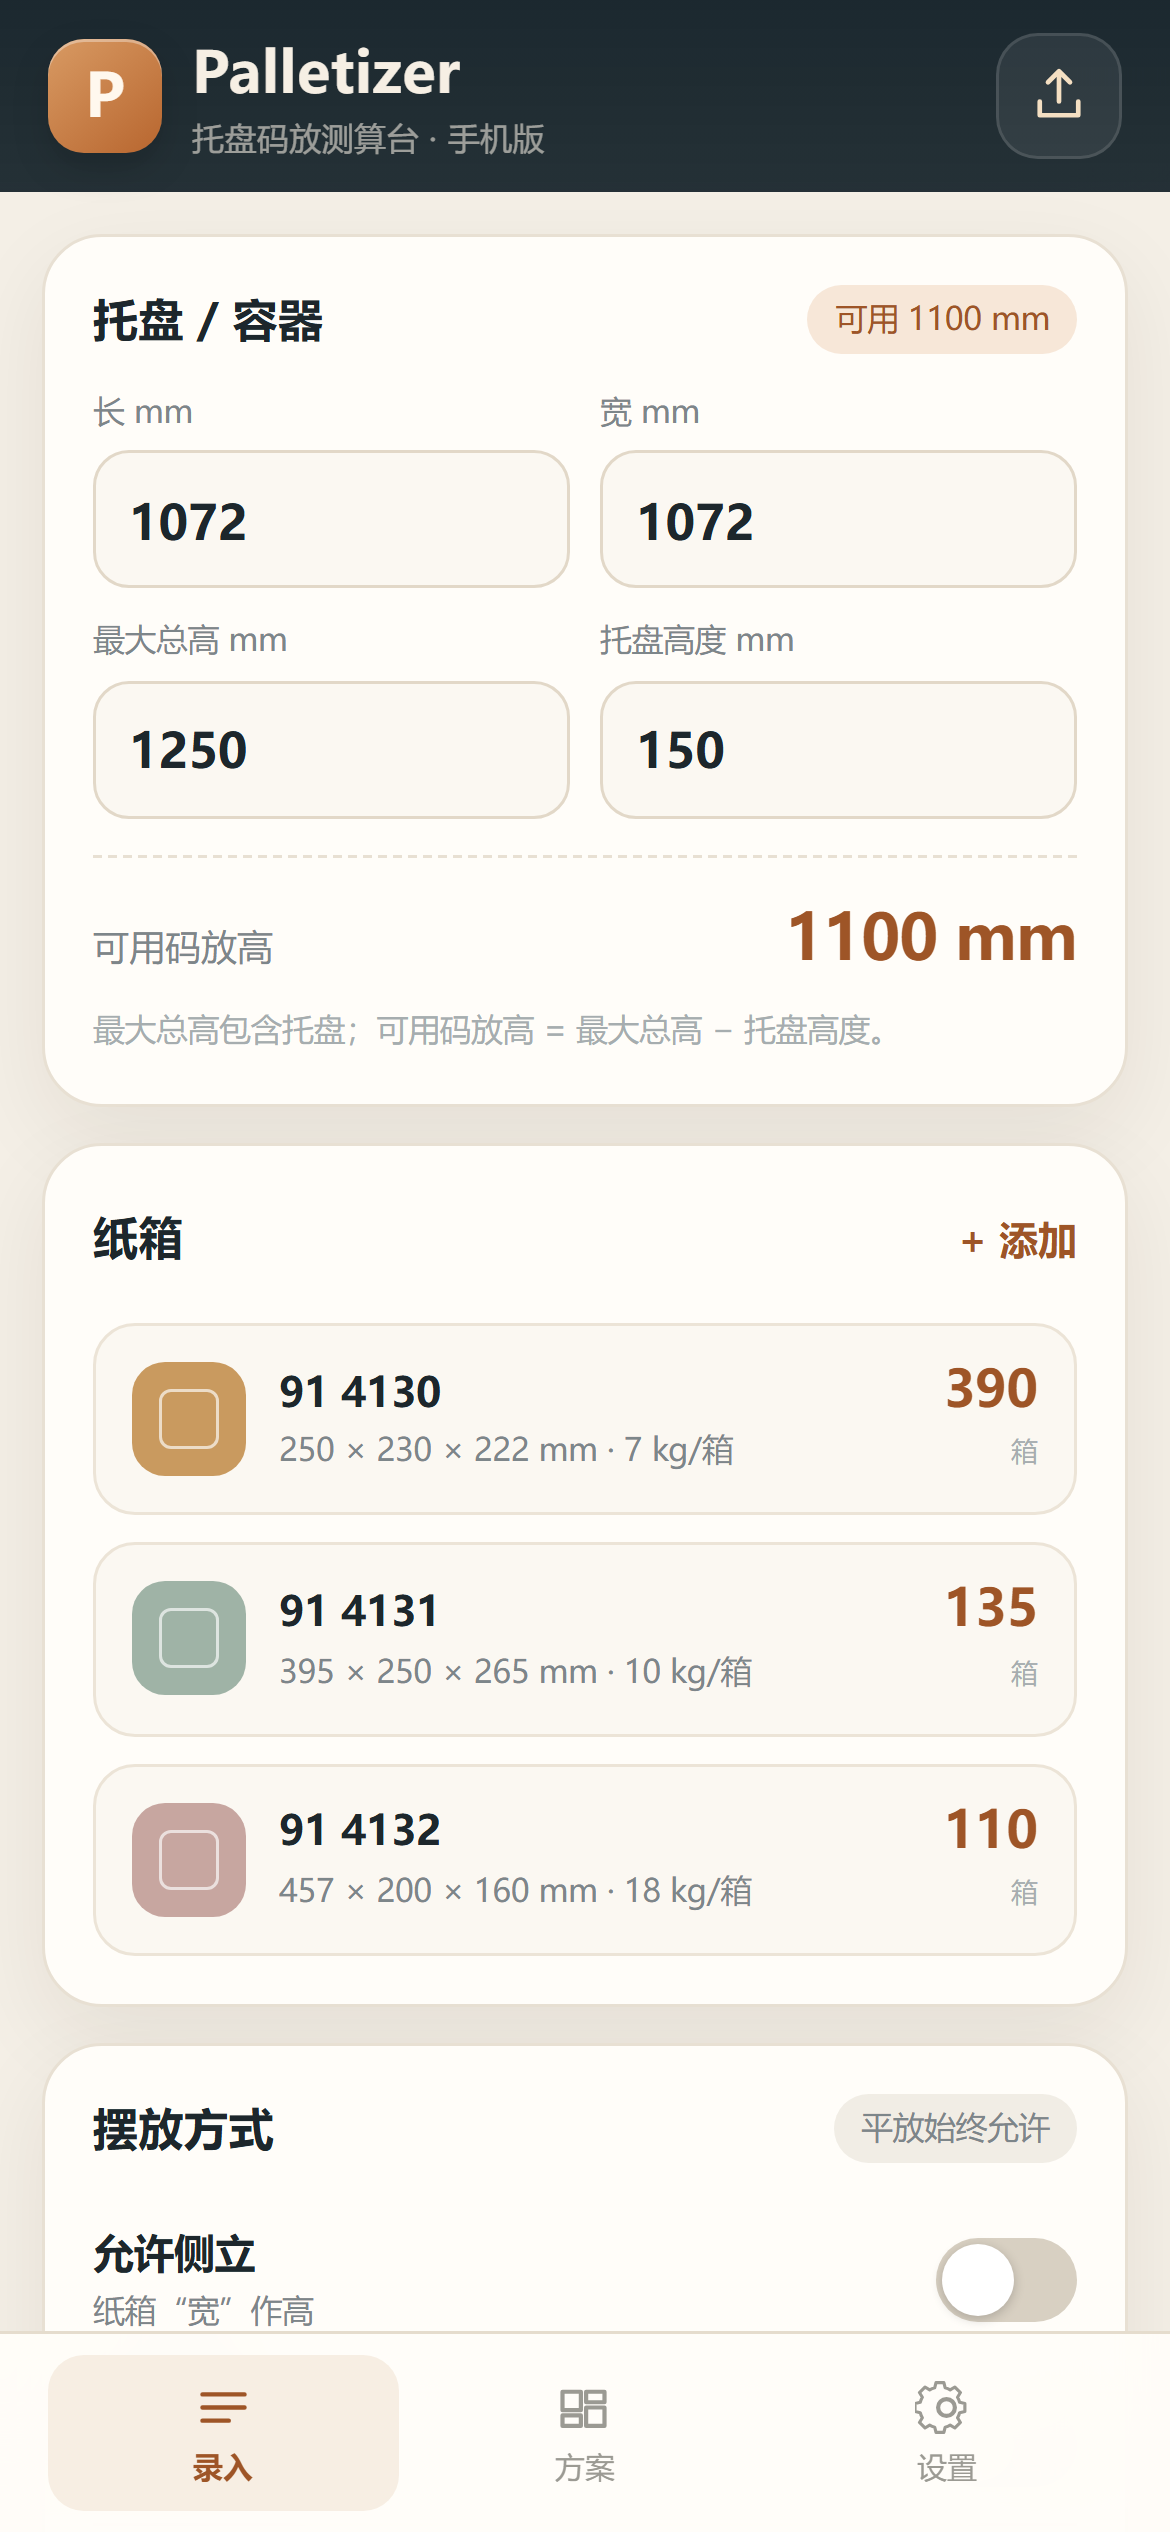
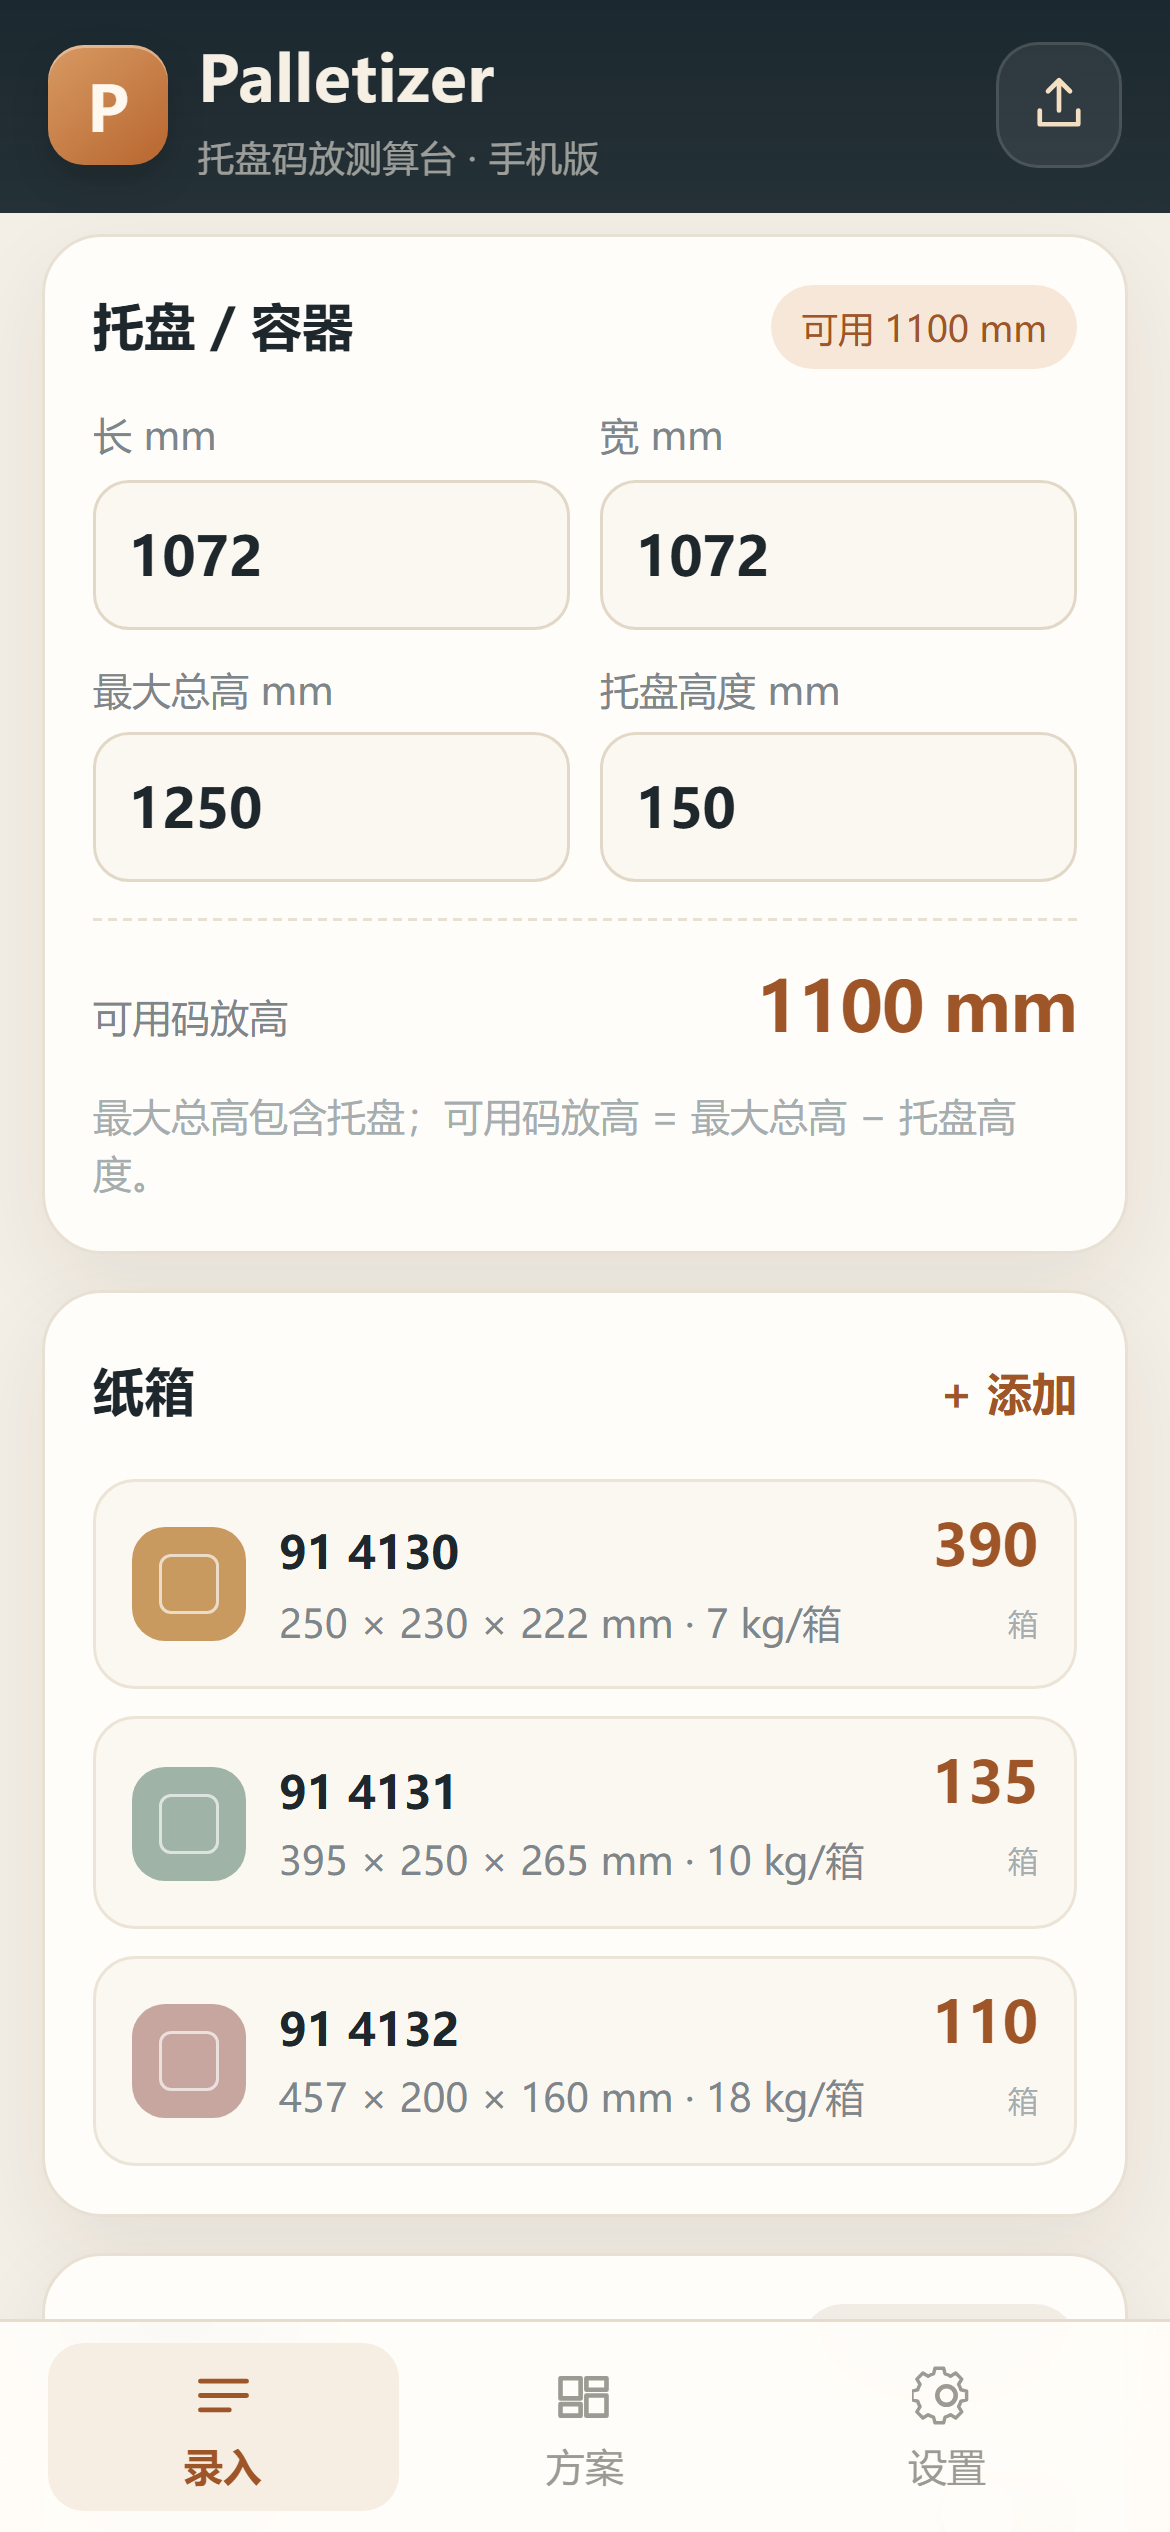
Mobile v1.2: larger type, pinch zoom, adjustable layer explode

diff --git a/js/render3d.js b/js/render3d.js
@@ -560,14 +560,50 @@
     var self = this;
     var canvas = this.canvas;
     var down = null;
+    var pointers = new Map();
+    var pinch = null;
+
+    function pointerList() {
+      return Array.from(pointers.values());
+    }
+    function pinchDistance() {
+      var pts = pointerList();
+      if (pts.length < 2) return 0;
+      return Math.hypot(pts[0].x - pts[1].x, pts[0].y - pts[1].y);
+    }
 
     canvas.addEventListener('pointerdown', function (e) {
       if (e.button !== 0) return;
-      down = { x: e.clientX, y: e.clientY, yaw: self.cam.yaw, pitch: self.cam.pitch, moved: false };
-      canvas.setPointerCapture(e.pointerId);
+      pointers.set(e.pointerId, { x: e.clientX, y: e.clientY });
+      try { canvas.setPointerCapture(e.pointerId); } catch (err) {}
+      if (pointers.size === 1) {
+        down = { x: e.clientX, y: e.clientY, yaw: self.cam.yaw, pitch: self.cam.pitch, moved: false };
+        pinch = null;
+      } else if (pointers.size === 2) {
+        var d = pinchDistance();
+        pinch = { dist: d > 0 ? d : 1, zoom: self.cam.zoom };
+        down = null;
+      }
       canvas.style.cursor = 'grabbing';
     });
+
     canvas.addEventListener('pointermove', function (e) {
+      if (!pointers.has(e.pointerId)) return;
+      pointers.set(e.pointerId, { x: e.clientX, y: e.clientY });
+
+      if (pointers.size >= 2) {
+        if (!pinch) {
+          var d0 = pinchDistance();
+          pinch = { dist: d0 > 0 ? d0 : 1, zoom: self.cam.zoom };
+        }
+        var d = pinchDistance();
+        if (d > 0 && pinch.dist > 0) {
+          self.cam.zoom = clamp(pinch.zoom * d / pinch.dist, 0.30, 5.0);
+          self.requestRender();
+        }
+        return;
+      }
+
       if (!down) return;
       var dx = e.clientX - down.x;
       var dy = e.clientY - down.y;
@@ -576,12 +612,20 @@
       self.cam.pitch = clamp(down.pitch + dy * 0.006, 0.06, 1.50);
       self.requestRender();
     });
+
     function up(e) {
-      if (!down) return;
-      down = null;
-      canvas.style.cursor = 'grab';
+      pointers.delete(e.pointerId);
       if (canvas.hasPointerCapture && e.pointerId != null && canvas.hasPointerCapture(e.pointerId)) {
-        canvas.releasePointerCapture(e.pointerId);
+        try { canvas.releasePointerCapture(e.pointerId); } catch (err) {}
+      }
+      if (pointers.size === 1) {
+        var p = pointerList()[0];
+        down = { x: p.x, y: p.y, yaw: self.cam.yaw, pitch: self.cam.pitch, moved: false };
+        pinch = null;
+      } else if (pointers.size === 0) {
+        down = null;
+        pinch = null;
+        canvas.style.cursor = 'grab';
       }
     }
     canvas.addEventListener('pointerup', up);
@@ -589,7 +633,7 @@
     canvas.addEventListener('wheel', function (e) {
       e.preventDefault();
       var f = Math.exp(e.deltaY * 0.0011);
-      self.cam.zoom = clamp(self.cam.zoom * f, 0.48, 3.2);
+      self.cam.zoom = clamp(self.cam.zoom * f, 0.30, 5.0);
       self.requestRender();
     }, { passive: false });
     canvas.addEventListener('dblclick', function () { self.resetCamera(); });

diff --git a/css/readability.css b/css/readability.css
@@ -1,0 +1,66 @@
+/* Palletizer v1.2：手机可读性 + 3D 拆层间距 */
+html { -webkit-text-size-adjust: 100%; }
+body { font-size: 17px; line-height: 1.5; }
+.brand-text h1 { font-size: 21px; }
+.brand-text p { font-size: 12px; }
+.brand-mark { width: 40px; height: 40px; font-size: 21px; }
+.card h2, .card-title { font-size: 17px; }
+.chip { font-size: 12px; padding: 5px 10px; }
+.text-btn { font-size: 15px; }
+.field span { font-size: 13px; }
+.field input { height: 50px; font-size: 18px; }
+.usable-line span { font-size: 13px; }
+.usable-line strong { font-size: 23px; }
+.micro { font-size: 13px; }
+.carton-main strong { font-size: 15px; }
+.carton-main small { font-size: 13px; }
+.carton-qty b { font-size: 19px; }
+.carton-qty span { font-size: 10px; }
+.switch-row { min-height: 60px; }
+.switch-row b { font-size: 15px; }
+.switch-row small { font-size: 13px; }
+.primary-btn { min-height: 56px; font-size: 17px; }
+.secondary-btn { font-size: 15px; }
+.input-hint { font-size: 12px; }
+.hero-kicker { font-size: 12px; }
+.hero-total strong { font-size: 64px; }
+.hero-sub { font-size: 13px; }
+.hero-grid b { font-size: 18px; }
+.hero-grid span { font-size: 11.5px; }
+.plan-note { font-size: 13px; }
+.section-line h2 { font-size: 17px; }
+.section-line span { font-size: 12px; }
+.pallet-main strong { font-size: 15px; }
+.pallet-main small { font-size: 13px; line-height: 1.45; }
+.pallet-num b { font-size: 20px; }
+.pallet-num span { font-size: 10px; }
+.badge { font-size: 10px; padding: 3px 7px; }
+.empty-state h2 { font-size: 19px; }
+.empty-state p { font-size: 13px; }
+.settings-text { font-size: 13px; }
+.settings-text.muted { font-size: 11.5px; }
+.list-btn span { font-size: 15px; }
+.list-btn em { font-size: 11px; }
+.install-badge { font-size: 12px; }
+.tab { font-size: 13px; min-height: 56px; }
+.tab svg { width: 23px; height: 23px; }
+.detail-head h2 { font-size: 16px; }
+.detail-head p { font-size: 12px; }
+.seg button { font-size: 12px; padding: 8px 10px; }
+.scene-hint { font-size: 11px; }
+.detail-metrics span { font-size: 12px; }
+.detail-metrics b { font-size: 16px; }
+.layer-main strong { font-size: 13.5px; }
+.layer-main small { font-size: 12px; }
+.sheet-head h2 { font-size: 19px; }
+.toast { font-size: 13px; }
+
+/* 3D 拆层间距 */
+.explode-row {
+  display: flex; align-items: center; gap: 11px;
+  margin-top: 9px; padding: 10px 12px;
+  background: var(--card); border: 1px solid var(--line); border-radius: 14px;
+}
+.explode-row span { font-size: 12.5px; color: var(--muted); white-space: nowrap; }
+.explode-row input[type="range"] { flex: 1; accent-color: var(--accent); height: 28px; }
+.explode-row b { font-size: 12px; color: var(--accent-dark); min-width: 34px; text-align: right; }

diff --git a/js/mobile.js b/js/mobile.js
@@ -4,7 +4,7 @@
   var Core = window.PalletCore;
   var XL = window.XlsxLite;
   var KEY = 'palletizer.v1';
-  var VERSION = '1.0.0';
+  var VERSION = '1.2.0';
   var PALETTE = ['#C99A5F', '#9FB3A6', '#C7A6A0', '#B1A3C9', '#D1B280', '#8FA9B8'];
 
   var DEFAULTS = {
@@ -28,6 +28,8 @@
   var scene = null;
   var editingIndex = -1;
   var detailId = '';
+  var currentDetail = null;
+  var explodePct = 10;
 
   function $(sel, root) { return (root || document).querySelector(sel); }
   function $all(sel, root) { return Array.prototype.slice.call((root || document).querySelectorAll(sel)); }
@@ -386,6 +388,7 @@
     if (scene) return scene;
     scene = new window.Scene3D($('#scene'));
     scene.showDims = true;
+    window.__palletizerScene = scene;
     return scene;
   }
 
@@ -424,6 +427,7 @@
     var p = plan && plan.pallets.filter(function (x) { return x.id === id; })[0];
     if (!p) return;
     detailId = id;
+    currentDetail = p;
     $('#detailTitle').textContent = p.id + ' · ' + palletKind(p);
     $('#detailSub').textContent = p.boxes + ' 箱 · ' + p.layers + ' 层 · ' + fmt(p.weight) + ' kg';
     var totalH = p.height + state.pallet.base;
@@ -454,12 +458,28 @@
     $('#detail').classList.add('open');
     $('#detail').setAttribute('aria-hidden', 'false');
     document.body.style.overflow = 'hidden';
+    $('#explodeRange').value = explodePct;
+    $('#explodeValue').textContent = explodePct + '%';
     requestAnimationFrame(function () {
       var s = ensureScene();
       s.resize();
       s.setModel(buildModel(p));
       s.setView('iso');
+      applyExplode();
     });
+  }
+
+  function applyExplode() {
+    if (!currentDetail || !scene) return;
+    var p = currentDetail;
+    explodePct = Math.max(0, Math.min(100, Number($('#explodeRange').value) || 0));
+    var pitch = p.height / Math.max(1, p.layers);
+    var mm = (explodePct / 100) * Math.max(8, pitch * 2.4);
+    var model = buildModel(p);
+    model.viewH = Math.max(usableH(), p.height + Math.max(0, p.layers - 1) * mm);
+    scene.explode = mm;
+    scene.setModel(model);
+    $('#explodeValue').textContent = explodePct + '%';
   }
 
   function closeDetail() {
@@ -754,6 +774,7 @@
       if (card) openDetail(card.dataset.pallet);
     });
     $('#detailBack').addEventListener('click', closeDetail);
+    $('#explodeRange').addEventListener('input', applyExplode);
     $all('#viewSeg button').forEach(function (b) {
       b.addEventListener('click', function () {
         $all('#viewSeg button').forEach(function (x) { x.classList.toggle('active', x === b); });

diff --git a/tools/mobile-test.js b/tools/mobile-test.js
@@ -163,6 +163,35 @@ async function shot(cdp, name) {
     if (!detail.open) throw new Error('详情未打开');
     if (detail.layers !== 2) throw new Error('1072 最后混托应为 2 层');
     if (!(detail.canvasW > 100 && detail.canvasH > 100)) throw new Error('3D canvas 未初始化');
+    const pinch = await evaluate(cdp, `(() => {
+      const c = document.querySelector('#scene');
+      const s = window.__palletizerScene;
+      const z0 = s.cam.zoom;
+      const ev = (type, id, x, y) => c.dispatchEvent(new PointerEvent(type, {
+        pointerId: id, clientX: x, clientY: y, bubbles: true, button: 0, pointerType: 'touch'
+      }));
+      ev('pointerdown', 1, 100, 100);
+      ev('pointerdown', 2, 200, 200);
+      ev('pointermove', 2, 320, 320);
+      const z1 = s.cam.zoom;
+      ev('pointerup', 1, 100, 100);
+      ev('pointerup', 2, 320, 320);
+      return { z0, z1 };
+    })()`);
+    console.log('pinch zoom:', pinch);
+    if (!(pinch.z1 > pinch.z0 + 0.05)) throw new Error('双指缩放未改变 3D 缩放：' + JSON.stringify(pinch));
+
+    const exp0 = await evaluate(cdp, "({ value: document.querySelector('#explodeRange').value, mm: window.__palletizerScene.explode })");
+    await evaluate(cdp, `(() => {
+      const el = document.querySelector('#explodeRange');
+      el.value = 50;
+      el.dispatchEvent(new Event('input', { bubbles: true }));
+    })()`);
+    await sleep(300);
+    const exp1 = await evaluate(cdp, "({ value: document.querySelector('#explodeRange').value, label: document.querySelector('#explodeValue').textContent, mm: window.__palletizerScene.explode })");
+    console.log('explode:', exp0, exp1);
+    if (exp1.value !== '50' || exp1.label !== '50%') throw new Error('拆层间距滑块未更新');
+    if (!(exp1.mm > exp0.mm + 1)) throw new Error('拆层间距没有作用于 3D');
     await shot(cdp, 'mobile-03-detail.png');
     await evaluate(cdp, "document.querySelector('#detailBack').click()");
     await sleep(300);

diff --git a/index.html b/index.html
@@ -12,6 +12,7 @@
   <link rel="apple-touch-icon" href="icons/icon-180.png">
   <link rel="icon" type="image/png" href="icons/icon-192.png">
   <link rel="stylesheet" href="css/mobile.css">
+  <link rel="stylesheet" href="css/readability.css">
   <title>Palletizer · 托盘码放测算台手机版</title>
 </head>
 <body>
@@ -119,7 +120,7 @@
     <section class="card settings-hero">
       <div class="brand-mark large">P</div>
       <div><h2>Palletizer</h2><p>托盘码放测算台 · 手机版</p></div>
-      <span class="version">v1.0</span>
+      <span class="version">v1.2</span>
     </section>
     <section class="card">
       <h2 class="card-title">数据</h2>
@@ -169,6 +170,11 @@
   </header>
   <div class="detail-scroll">
     <div class="scene-wrap"><canvas id="scene"></canvas><div class="scene-hint">拖动旋转 · 双指缩放</div></div>
+    <div class="explode-row">
+      <span>拆层间距</span>
+      <input id="explodeRange" type="range" min="0" max="100" step="1" value="10" aria-label="拆层间距">
+      <b id="explodeValue">10%</b>
+    </div>
     <div class="detail-metrics" id="detailMetrics"></div>
     <div class="section-line"><h2>逐层明细</h2><span id="layerCountLabel">—</span></div>
     <div id="layerList" class="layer-list"></div>

diff --git a/sw.js b/sw.js
@@ -1,9 +1,10 @@
 /* Palletizer 离线缓存 */
-const CACHE = 'palletizer-v1.0.0';
+const CACHE = 'palletizer-v1.2.0';
 const ASSETS = [
   './',
   './index.html',
   './css/mobile.css',
+  './css/readability.css',
   './js/xlsx-lite.js',
   './js/core.js',
   './js/render3d.js',

diff --git a/README.md b/README.md
@@ -3,6 +3,8 @@
 **托盘码放测算台 · 手机版**  
 A mobile-first pallet loading calculator for iPhone.
 
+**v1.2：整体字号调大；3D 支持双指缩放；拆层间距可调。**
+
 > 目标部署地址：<https://taneli888.github.io/palletizer/>  
 > GitHub 仓库：<https://github.com/taneli888/palletizer>  
 > 部署完成后，用 iPhone Safari 扫码打开，再“添加到主屏幕”。
@@ -21,7 +23,8 @@ Palletizer 是一个纯前端 PWA，针对 iPhone 屏幕重新做了界面：
 - 手工添加 / 编辑纸箱；
 - 导入 `.xlsx` / `.csv`（托盘参数 + 纸箱明细）；
 - 自动计算整托 / 尾托 / 混托 / 全局省托；
-- 每一托可以打开 3D 查看，显示实际尺寸和含托盘总高；
+- 每一托可以打开 3D 查看，显示实际尺寸和含托盘总高；拖动旋转，**双指捏合缩放**；
+- 3D 详情里有 **拆层间距** 滑块，层数多时可以拉开看清每一层；
 - 导出 / 分享 Excel；
 - 安装到 iPhone 主屏幕后可全屏、离线运行。
 
